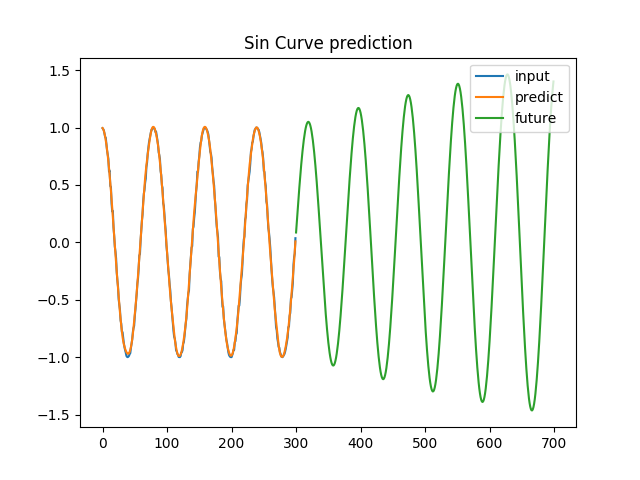
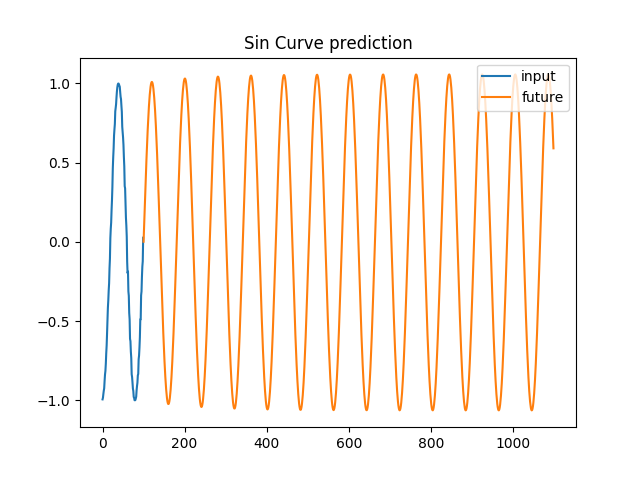
optimized

diff --git a/rnn.py b/rnn.py
@@ -5,7 +5,7 @@ from tensorflow.python.keras.callbacks import EarlyStopping
 
 import matplotlib.pyplot as plt
 
-from make_noised_sin import make_noised_sin
+import make_data as md
 
 import pandas as pd
 import numpy as np
@@ -13,7 +13,7 @@ import math
 import random
 
 io = 1
-hidden = 300
+hidden = 50
 
 def load_data(data, n_prev):
 
@@ -39,8 +39,8 @@ def train_test_split(df, test_size=0.1, n_prev=100):
 
 def main():
 
-    sin = make_noised_sin()
-    size = 100
+    sin = md.make_noised_sin()
+    size = 60
     (x_train, y_train), (x_test, y_test) = train_test_split(sin, n_prev = size)
 
     model = Sequential([
@@ -51,27 +51,23 @@ def main():
 
     model.compile(loss='mean_squared_error', optimizer='adam')
     stopping = EarlyStopping(monitor='val_loss', mode='auto', patience=10)
-    model.fit(x_train, y_train, batch_size=256, nb_epoch=100, validation_split=0.1, callbacks=[stopping])
+    model.fit(x_train, y_train, batch_size=256, nb_epoch=1000, validation_split=0.1, callbacks=[stopping])
 
-    pred_out = model.predict(x_test)
-    predict = pred_out
-    output = []
-    future_data = x_test
-    future_steps = 400
+    result = []
+    future_steps = 1000
+    future_data = [x_train[-1:][-1:][-size:]]
     for i in range(future_steps):
       print(i)
-      future_data = np.delete(future_data, 0, 0)
-      future_data = np.append(future_data, predict[-size:]).reshape(300, 100, 1)
-
-      predict = model.predict(future_data)
-      output = np.append(output, predict[len(predict) - 1])
-
+      pred = model.predict(future_data)
+      future_data = np.delete(future_data, 0)
+      future_data = np.append(future_data, pred[-1:]).reshape(1, size, 1)
+      result = np.append(result, pred[-1:])
 
     plt.figure()
     #plt.plot(y_test.flatten())
-    plt.plot(range(0, 300), y_test.flatten(), label='input')
-    plt.plot(range(0, 300), pred_out.flatten(), label='predict')
-    plt.plot(range(300, 300 + future_steps), output.flatten(), label='future')
+    output = y_train[-100:]
+    plt.plot(range(0, len(output)), output, label='input')
+    plt.plot(range(len(output), len(output) + future_steps), result, label='future')
     plt.title('Sin Curve prediction')
     plt.legend(loc='upper right')
     plt.savefig('result.png')

diff --git a/make_data.py b/make_data.py
@@ -17,3 +17,10 @@ def make_noised_sin():
     df["sin_t"] = df.t.apply(lambda x: math.sin(x * (2 * math.pi / steps_per_cycle)+ random.uniform(-1.0, +1.0) * random_factor))
 
     return df[["sin_t"]]
+
+def make_sincos():
+    df = pd.DataFrame(np.arange(0, 4000), columns=['t'])
+    df["sincos"] = df.t.apply(lambda x: math.sin(np.pi * x / 20) + math.cos(np.pi * x * 3 / 20))
+    df["sincos"] = df.sincos.apply(lambda x: x * (0.75 + 0.5 * random.random()))
+
+    return df[["sincos"]]
